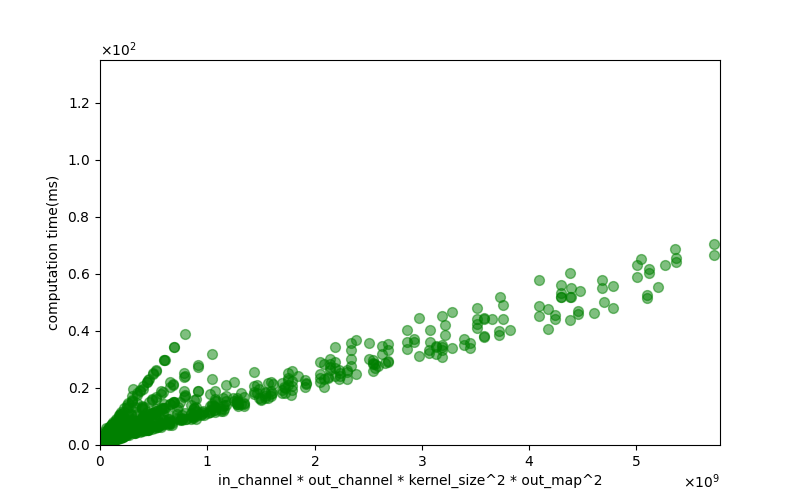
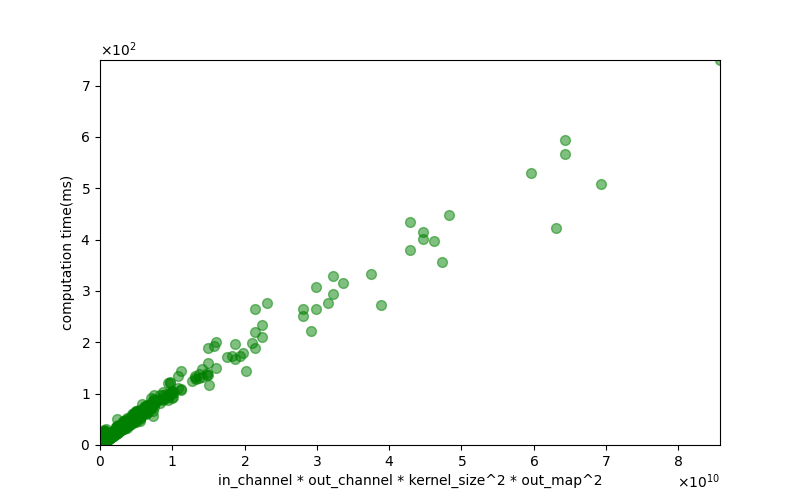
img update

diff --git a/毕设3_中间变量传输/12_automatic_partition_model2.py b/毕设3_中间变量传输/12_automatic_partition_model2.py
@@ -1,5 +1,8 @@
 import joblib
+import numpy as np
 import torch
+from matplotlib import pyplot as plt
+
 import function
 import functionImg
 import torch.nn as nn
@@ -120,6 +123,8 @@ def showDnnPartition(model_index):
     real_min_time = end_to_end_latency[0]
     predict_partition = 0
     predict_min_time = edge_latency_predict[0] + transport_latency_predict[0] + cloud_latency_predict[0]
+
+    end_to_end_predict = []
     for i in range(len(layerName_exl)):
         print(layerName_exl[i])
         print(
@@ -128,6 +133,7 @@ def showDnnPartition(model_index):
         print(
             f"predict  :  shape:{shape[i]}\t\tedge latency:{edge_latency_predict[i]:.3f} ms\t\ttransport time:{transport_latency_predict[i]:.3f} ms\t\t"
             f"cloud latency{cloud_latency_predict[i]:.3f} ms\t\tend to end latency:{edge_latency_predict[i] + transport_latency_predict[i] + cloud_latency_predict[i]:.3f} ms")
+        end_to_end_predict.append(edge_latency_predict[i] + transport_latency_predict[i] + cloud_latency_predict[i])
         if end_to_end_latency[i] < real_min_time:
             real_partition = i
             real_min_time = end_to_end_latency[i]
@@ -140,12 +146,51 @@ def showDnnPartition(model_index):
           f"   best time : {end_to_end_latency[real_partition]:.3f}")
     print(f"predict partition point : {predict_partition}  layer name: {layerName_exl[predict_partition]}"
           f"   best time : {edge_latency_predict[predict_partition] + transport_latency_predict[predict_partition] + cloud_latency_predict[predict_partition]:.3f}")
+    return end_to_end_latency,end_to_end_predict
 
+
+def getImg(true_time,predict_time):
+    # true_time = [119.166, 148.398, 35.81, 105.005, 28.324, 41.525, 35.808, 54.218, 17.055, 8.159, 11.091, 6.177, 6.047,
+    #              0.18]
+    # predict_time = [85.930, 110.725, 30.219, 80.007, 23.026, 39.600, 28.492, 28.492, 11.475, 11.475, 11.475, 8.964,
+    #                 8.964, 7.452]
+
+    # print(index)
+    # print(times)
+
+    ind = np.arange(len(true_time))  # the x locations for the groups
+    width = 0.35  # the width of the bars
+
+    fig = plt.figure(figsize=(8, 3.5))
+    ax1 = fig.add_subplot(111)
+    ax1.xaxis.set_ticks_position('bottom')
+    ax1.set_xticks(ind)
+    # ax1.set_xticklabels(('input', 'conv1', 'maxPool2d1', 'conv2', 'maxPool2d2', 'conv3',
+    #                      'conv4', 'conv5', 'maxPool2d3', 'avgPool2d', 'flatten',
+    #                      'linear1', 'linear2', 'linear3'), rotation=-45)
+    ax1.get_xaxis().set_visible(False)  # 隐藏x坐标轴
+
+    lns1 = ax1.bar(ind - width / 2, true_time, width, color='olivedrab',label='real time')
+
+    # Add some text for labels, title and custom x-axis tick labels, etc.
+    # ax.set_ylabel('Scores')
+
+    lns2 = ax1.bar(ind + width / 2, predict_time, width, color='goldenrod', label='predict time')
+
+    fig.legend(loc=1, bbox_to_anchor=(1, 1), bbox_transform=ax1.transAxes)
+    # ax1.title("")
+    ax1.set_ylabel('End-to-end Latency(ms)')
+
+    # plt.ticklabel_format(style='sci', axis='y', scilimits=(0, 0), useMathText=True)
+    plt.title("Vgg16Net")
+    plt.tight_layout()
+    plt.show()
 
 
 if __name__ == '__main__':
-    model_index = 1
-    showDnnPartition(model_index)
+    model_index = 2
+    end_to_end_latency,end_to_end_predict = showDnnPartition(model_index)
+    getImg(end_to_end_latency,end_to_end_predict)
 
 
 

diff --git a/毕设3_中间变量传输/11_computation_time.py b/毕设3_中间变量传输/11_computation_time.py
@@ -111,27 +111,27 @@ def get_predict_model():
     times = function.get_excel_data(path,sheet_name,"times")
 
     flops = np.array(flops)
-    flops2 = np.array(flops2)
+    flops2 = np.array(flops2[:14])
     params = np.array(params)
-    params2 = np.array(params2)
-    times = np.array(times)
+    params2 = np.array(params2[:14])
+    times = np.array(times[:14])
 
     # functionImg.getScatterImg(flops,times,"flops","times(ms)")
-    # functionImg.getScatterImg(flops2,times,"flops2","times(ms)")
+    functionImg.getScatterImg(flops2,times,"FLOPs","Latency(ms)")
     # functionImg.getScatterImg(params,times,"params","times(ms)")
-    # functionImg.getScatterImg(params2,times,"params2","times(ms)")
+    functionImg.getScatterImg(params2,times,"Params","Latency(ms)")
 
-    save = True
+    save = False
     # functionImg.myPolynomialRegression_single(flops2,times,"flops","times(ms)",degree=2,save=save,
     #                                           modelPath="../model/flops_time_cuda.m")
     # functionImg.myPolynomialRegression_single(flops2,times,"flops","times(ms)",degree=3)
 
-    functionImg.myPolynomialRegression_single(flops2, times, "flops", "times(ms)", degree=2, save=save,
-                                              modelPath="../model/flops_time_mac.m")
-    #
-    ones = torch.ones(len(flops))
-    x = np.c_[ones,flops2,params2]
-    functionImg.myPolynomialRegression(x,times,"y_real","y_predict",save=save,modelPath="../model/flops_params_time_mac.m")
+    # functionImg.myPolynomialRegression_single(flops2, times, "flops", "times(ms)", degree=2, save=save,
+    #                                           modelPath="../model/flops_time_mac.m")
+    # #
+    # ones = torch.ones(len(flops))
+    # x = np.c_[ones,flops2,params2]
+    # functionImg.myPolynomialRegression(x,times,"y_real","y_predict",save=save,modelPath="../model/flops_params_time_mac.m")
 
 
 
@@ -201,9 +201,9 @@ if __name__ == '__main__':
     save_flag = False
     # get_predict_data(save_flag)
 
-    # get_predict_model()
+    get_predict_model()
 
-    compare_alexnet()
+    # compare_alexnet()
 
 
 

diff --git a/毕设3_中间变量传输/07_MaxPool2dPredict.py b/毕设3_中间变量传输/07_MaxPool2dPredict.py
@@ -75,7 +75,7 @@ if __name__ == '__main__':
     save_flag = False
     modelPath = "../model/maxPool2dTime_mac.m"
 
-    # functionImg.getScatterImg(computation_number, y, "output's shape * kernel_size^2", labely)
+    functionImg.getScatterImg(computation_number, y, "output's shape * kernel_size^2", labely)
     # functionImg.getScatterImg(computation_number/kernel_size, y, "output's shape * kernel_size", labely)
     # functionImg.getScatterImg(computation_number / kernel_size /kernel_size, y,"output's shape", labely)
 
@@ -105,8 +105,8 @@ if __name__ == '__main__':
     """
     # functionImg.myLinearRegression(computation_number / kernel_size /kernel_size, y, "output's shape", labely,save_flag, modelPath)
 
-    compareData_cuda()
+    # compareData_cuda()
 
 
-    compareData_mac()
+    # compareData_mac()
 

diff --git a/毕设3_中间变量传输/08_Conv2dPredict.py b/毕设3_中间变量传输/08_Conv2dPredict.py
@@ -106,7 +106,8 @@ if __name__ == '__main__':
     out_channel = np.array(out_channel)
     out_map = np.array(out_map)
 
-    number = in_channel * out_channel * kernel_size * kernel_size * out_map * out_map
+    # number = in_map * in_map * in_channel * (kernel_size/stride) * (kernel_size/stride) * out_channel
+    number = out_map * out_map * in_channel * (kernel_size/stride) * (kernel_size/stride) * out_channel
     y = np.array(computation_time)
 
     one = np.ones(len(in_channel))
